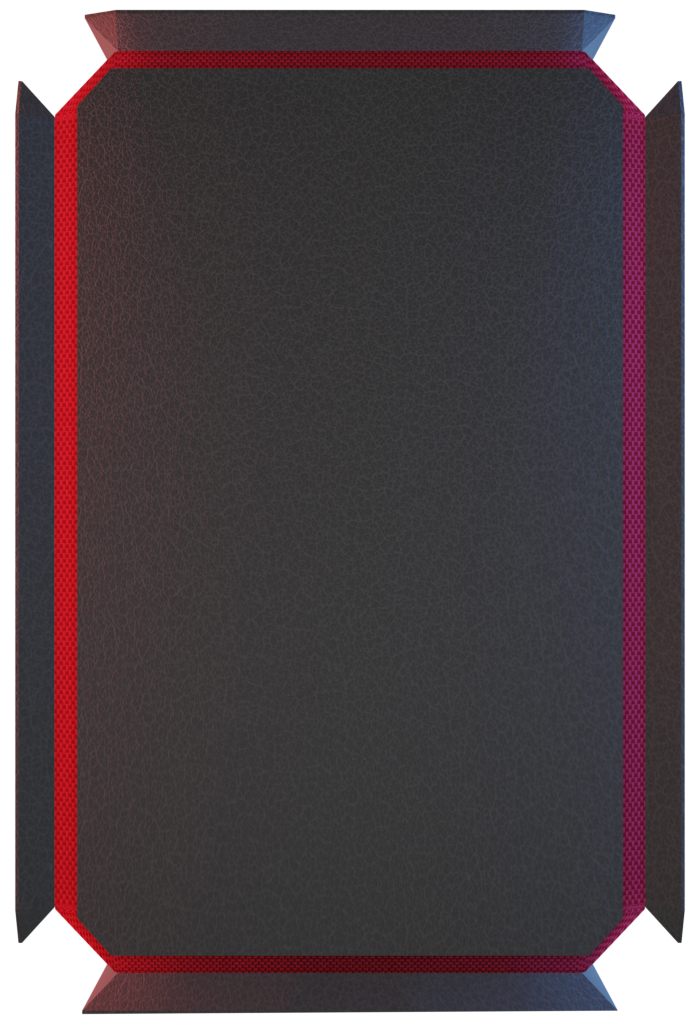
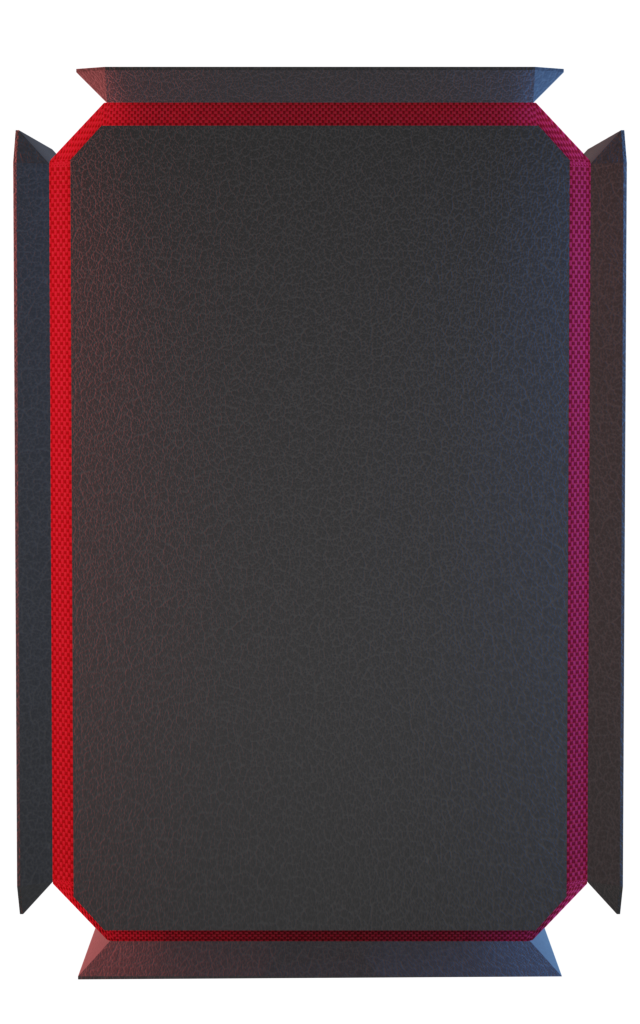
Dynamic size main product image

Changed region(s): [[0.0, 0.0, 1.0, 1.0], [0.875, 0.2812, 0.9375, 0.3438]]

diff --git a/assets/css/style.css b/assets/css/style.css
@@ -43,3 +43,20 @@ nav > a::before {
 #main-header {
 	background-color: rgba(66, 133, 133, 0.5);
 }
+
+.main-product .conent {
+	display: flex;
+	flex-wrap: nowrap;
+	justify-content: flex-end;
+	align-items: center;
+	flex-flow: column;
+}
+
+.main-product .product-image {
+	position: relative;
+	display: block;
+	--size: calc(var(--percent) * 0.8);
+	height: var(--size);
+	width: calc(var(--size) / 1.6);
+	bottom: 0;
+}

diff --git a/index.html b/index.html
@@ -41,10 +41,10 @@
 			</div>
 		</header>
 		<main>
-			<section class="ms">
+			<section class="ms main-product">
 				<div class="conent">
 					<h2>Pequin Gamer Pod</h2>
-					<img src="assets/images/pgp_front_deg.png">
+					<img class="product-image" alt="Pequin Gamer Pod" src="assets/images/pgp_front_deg.png">
 				</div>
 			</section>
 			<section class="ms">

diff --git a/pequin/pq.js b/pequin/pq.js
@@ -67,7 +67,7 @@ class PQLPL {
 			if (percent >= 0) {
 
 				ms.style.setProperty("--offset", offset + "px");
-				ms.style.setProperty("--percent", (percent * 100) + "%");
+				ms.style.setProperty("--percent", (percent * 100) + "vh");
 			}
 
 			if (percent >= 0.25) {

diff --git a/pequin/pq.css b/pequin/pq.css
@@ -107,6 +107,7 @@ section {
 	width: auto;
 	overflow: hidden;
 	--offset: 0px;
+	--percent: 0vh;
 }
 
 section:first-child .conent {
